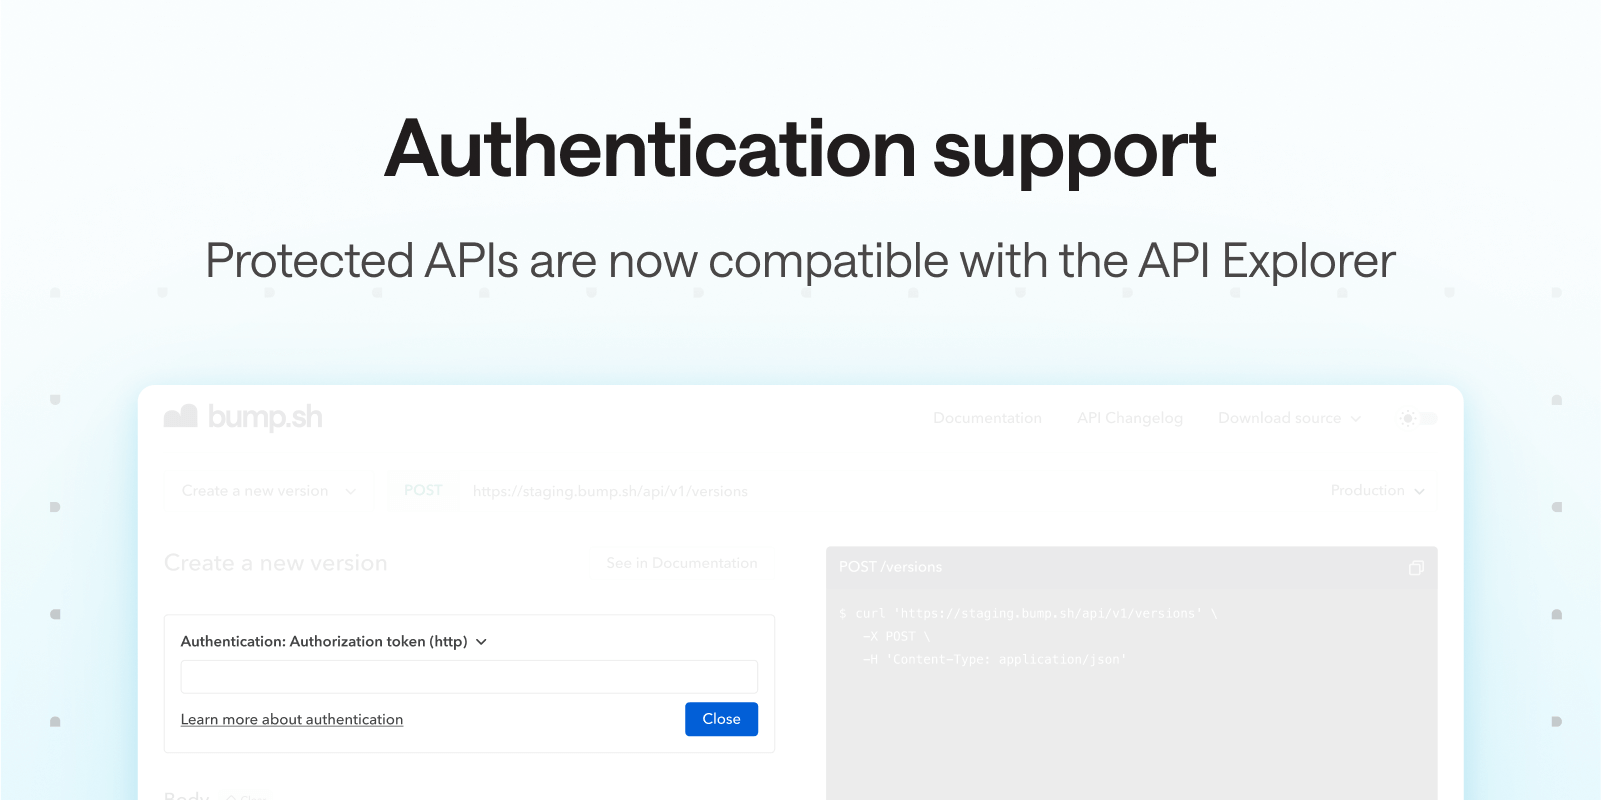
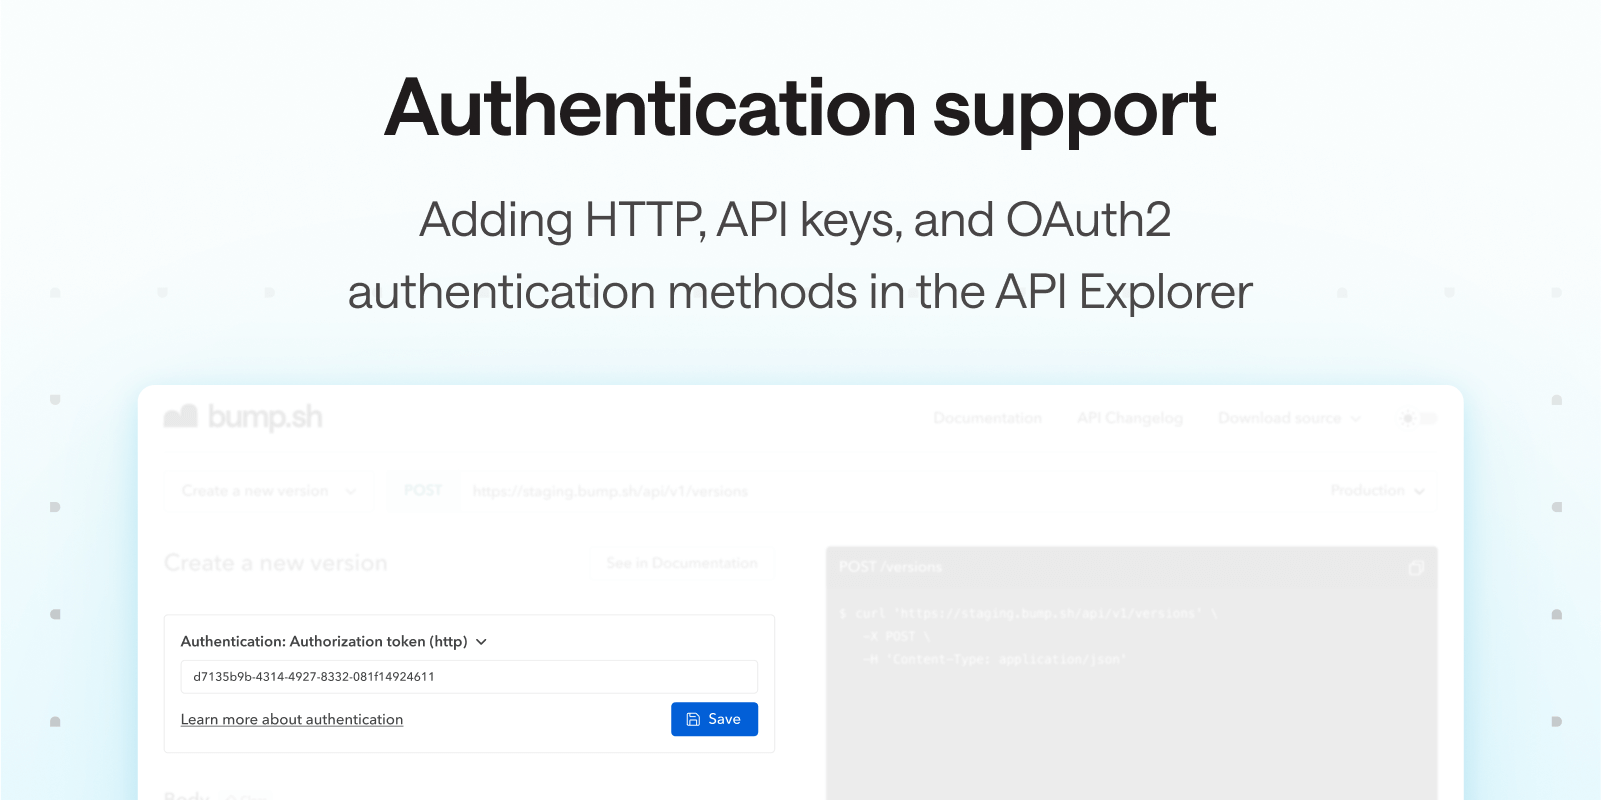
Copy and cover updated

Changed region(s): [[0.1249, 0.0938, 0.8745, 0.4062], [0.1249, 0.8438, 0.2498, 0.875], [0.406, 0.875, 0.4685, 0.9375]]

diff --git a/src/_product-updates/2025-02-06-api-explorer-auth.md b/src/_product-updates/2025-02-06-api-explorer-auth.md
@@ -6,15 +6,15 @@ image: /images/changelog/api-explorer-auth.png
 
 ![api-explorer-auth.png](/images/changelog/api-explorer-auth.png)
 
-Authentication is often a prerequisite for using an API. Our API Explorer now supports it!
+Authentication is now supported for APIs providing authentication methods. 
 
 We currently support:
 - HTTP: Bearer/Basic, 
 - API keys: Header/Query string/Cookie, 
 - OAuth2: basic support through a header token field.
 
-Users only have to define it once to use it on any of your API operations that require it. They can also combine multiple authentication methods when the API requires it.
+Users only have to define it once to use it on any of your API operations that require it.
 
 Want to try the API Explorer? [You can request access here.](https://survey.typeform.com/to/RRACql9G)
 
-The API Explorer is still in beta. We warmly welcome your feedback!
+The API Explorer is still in beta. We warmly welcome your feedback.
